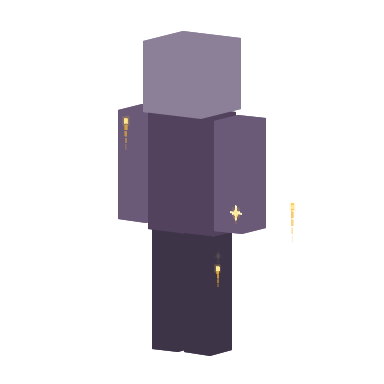
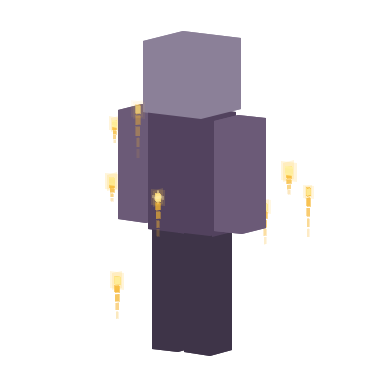
Make Gold Spark aura larger and more visible

diff --git a/src/main/java/com/axial/cosmetics/client/GoldSparkGeometry.java b/src/main/java/com/axial/cosmetics/client/GoldSparkGeometry.java
@@ -15,12 +15,12 @@ public final class GoldSparkGeometry {
     static {
         var random = new Random(0x601D5A);
         var sparks = new ArrayList<Spark>();
-        for (int i = 0; i < 48; i++) {
-            sparks.add(new Spark(i * 2.5 + random.nextDouble() * 2,
+        for (int i = 0; i < 72; i++) {
+            sparks.add(new Spark(i * (PERIOD / 72.0) + random.nextDouble() * 1.4,
                     12 + random.nextDouble() * 8, random.nextDouble() * Math.PI * 2,
                     .48 + random.nextDouble() * .3, .16 + random.nextDouble() * .65,
-                    .85 + random.nextDouble() * .45, .07 + random.nextDouble() * .18,
-                    .009 + random.nextDouble() * .007, random.nextDouble() * Math.PI * 2));
+                    .85 + random.nextDouble() * .45, .12 + random.nextDouble() * .26,
+                    .018 + random.nextDouble() * .014, random.nextDouble() * Math.PI * 2));
         }
         SPARKS = List.copyOf(sparks);
     }
@@ -42,12 +42,12 @@ public final class GoldSparkGeometry {
             for (int step = 0; step < 5; step++) {
                 double strength = 1 - step / 5.0;
                 panel(mesh, x, y - step * s.length / 5, z, s.width * (.35 + strength * .65),
-                        s.length / 12, color(fade * shimmer * strength * .8, 0xF6B632));
+                        s.length / 12, color(fade * shimmer * strength * .95, 0xF6B632));
             }
             panel(mesh, x, y, z, s.width, s.width, color(fade * shimmer, 0xFFF1A3));
             if (detailed) {
-                panel(mesh, x, y, z, s.width * 2, s.width * 2, color(fade * shimmer * .13, 0xFFCC4A));
-                double flash = Math.pow(Math.max(0, Math.sin(age * .9 + s.phase)), 8);
+                panel(mesh, x, y, z, s.width * 2, s.width * 2, color(fade * shimmer * .22, 0xFFCC4A));
+                double flash = Math.pow(Math.max(0, Math.sin(age * .9 + s.phase)), 6);
                 panel(mesh, x, y, z, s.width * (1 + flash * 2), s.width * .42,
                         color(fade * flash, 0xFFF5C5));
                 panel(mesh, x, y, z, s.width * .42, s.width * (1 + flash * 2),
